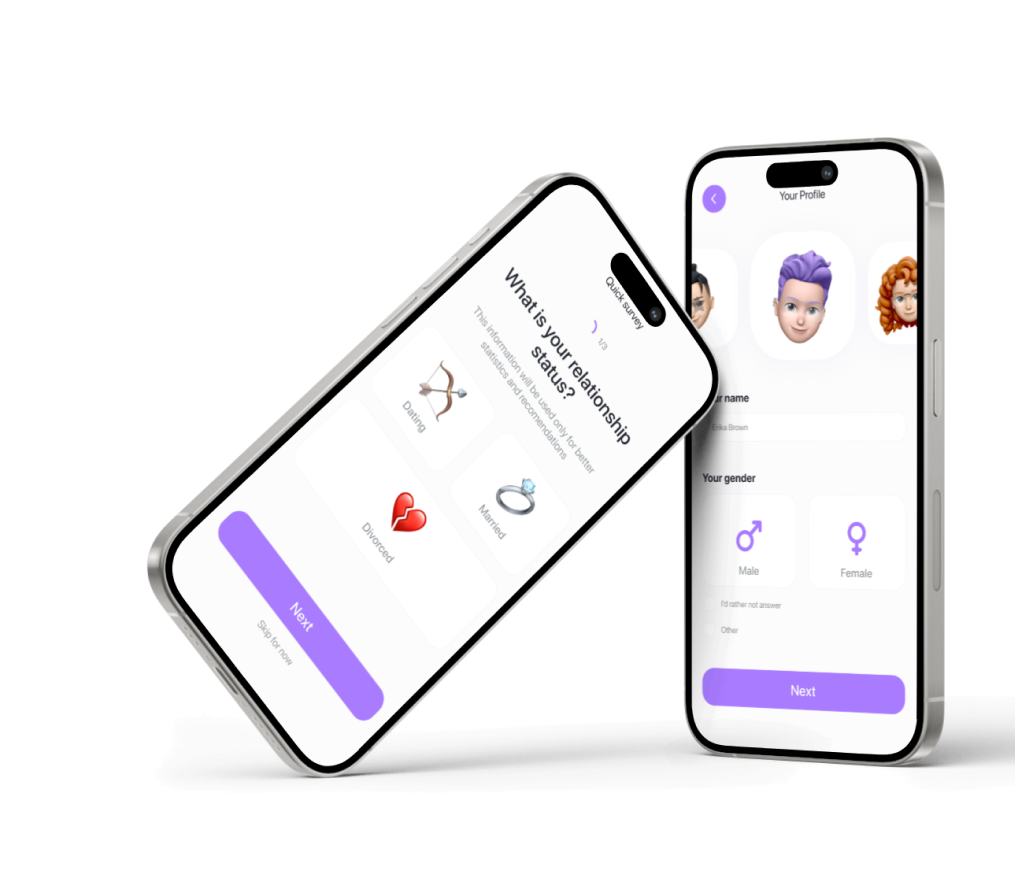
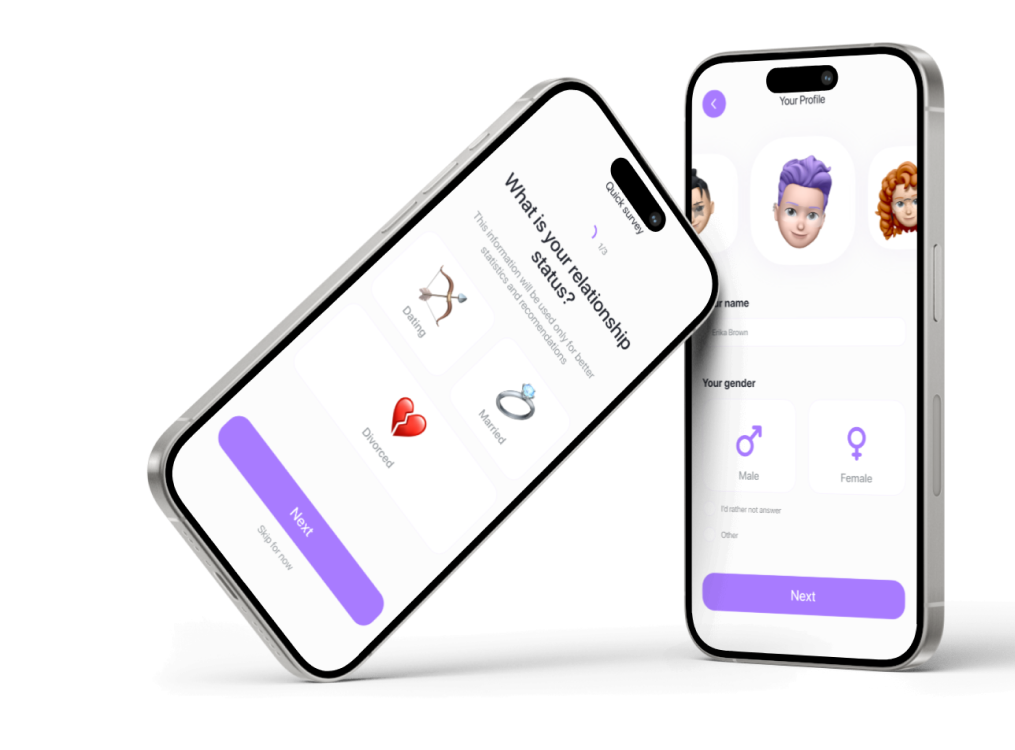
адаптив

diff --git a/tiddle/src/app/(landing)/_components/WhatIsIt/WhatIsIt.module.scss b/tiddle/src/app/(landing)/_components/WhatIsIt/WhatIsIt.module.scss
@@ -5,14 +5,18 @@
 
 	.phones {
 		//flex: 1 0 50%;
+		align-self: flex-end;
+		justify-self: flex-end;
 		max-width: 100%;
 		position: relative;
 		width: 100%;
+		margin-left: 90px;
+		margin-top: 1px;
 		z-index: -1;
 
 		.imgPhones {
 			max-width: 100%;
-			height: auto;
+			// height: auto;
 		}
 	}
 	.title {
@@ -25,6 +29,17 @@
 		}
 		.tag {
 			@include gridContainer(baseline, baseline, start / mid);
+		}
+
+
+		@include descktop1440 {
+			@include grid([start] 1fr [mid] 1fr [end], auto auto auto, 0);
+			grid-row-gap: 64px;
+		}
+
+		@include descktop1200 {
+			@include grid([start] 2fr [mid] 1fr [end], auto auto auto, 0);
+			grid-row-gap: 64px;
 		}
 	}
 	.btnWrapper {
@@ -43,6 +58,9 @@
 			background: $white;
 			right: -32px;
 			top: -32px;
+		}
+		@include descktop1440 {
+			grid-column: start / mid;
 		}
 	}
 }

diff --git a/tiddle/src/app/(landing)/_components/Card/Card.module.scss b/tiddle/src/app/(landing)/_components/Card/Card.module.scss
@@ -1,11 +1,11 @@
 .wrapper {
 	@include flexbox(space-between, center);
-	@include box(100%, 981px);
-	max-width: 539px;
+	height: 981px;
+	//	max-width: 539px;
 	padding: 58px 48px 37px 48px;
 	border-radius: 40px;
+	background: $white;
 	transition: all 0.3s ease-in;
-	margin-bottom: 263px;
 	.imgType {
 		box-shadow: 0 4px 40px 0 rgba(117, 117, 117, 0.15);
 		border-radius: 100px;
@@ -69,4 +69,11 @@
 
 .active {
 	box-shadow: 0 20px 100px 0 rgba(117, 117, 117, 0.2);
+}
+
+@include descktop1200 {
+	.premium {
+		grid-column: start / end;
+		//	width: 100%;
+	}
 }

diff --git a/tiddle/src/app/(landing)/_components/ElipseAvatars/ElipseAvatars.module.scss b/tiddle/src/app/(landing)/_components/ElipseAvatars/ElipseAvatars.module.scss
@@ -19,10 +19,16 @@
 		&:nth-child(3) {
 			margin-top: -100px;
 			max-width: 435px;
+			@include descktop1440 {
+				margin-top: 0;
+			}
 		}
 		&:nth-child(4) {
 			margin-top: 36px;
 			max-width: 405px;
+			@include descktop1440 {
+				margin-top: 0;
+			}
 		}
 
 		&:nth-child(5) {
@@ -32,6 +38,13 @@
 			@include gridContainer(center, flex-start, mid / end);
 			max-width: 354px;
 			margin-top: 174px;
+
+			@include descktop1440 {
+				@include gridContainer(center, center, start / end);
+			}
+			@include descktop1200 {
+				margin-top: 0;
+			}
 		}
 	}
 

diff --git a/tiddle/src/app/(landing)/_components/Plans/Plans.module.scss b/tiddle/src/app/(landing)/_components/Plans/Plans.module.scss
@@ -1,9 +1,15 @@
-.cardsWrapper {
-	@include flexbox(space-between, center, 40px, row);
-	width: 100%;
-}
-
 .wrapper {
 	@include flexbox(center, flex-start, 64px);
 	width: 100%;
+	.cardsWrapper {
+		@include grid(1fr 1fr 1fr, auto, 40px);
+		margin-bottom: 263px;
+		//@include flexbox(space-between, center, 40px, row);
+		width: 100%;
+
+		@include descktop1200 {
+			@include grid([start] 1fr 1fr [end], 1fr auto, 32px);
+			width: 100%;
+		}
+	}
 }

diff --git a/tiddle/src/app/(landing)/_components/Title/Title.module.scss b/tiddle/src/app/(landing)/_components/Title/Title.module.scss
@@ -1,5 +1,5 @@
 .Htag {
-	@include text-styles(96px, 125%, $text-main, 400);
+	@include text-styles(96px, 125%, $text-main, 400, left);
 	margin: 0;
 	padding: 0;
 	white-space: nowrap;
@@ -11,5 +11,12 @@
 
 	.link {
 		color: $main-colour-elements;
+		@include descktop1200 {
+			display: block;
+		}
+	}
+
+	@include descktop1440 {
+		@include text-styles(84px, 114%, $text-main, 400, left);
 	}
 }

diff --git a/tiddle/src/app/(landing)/page.module.scss b/tiddle/src/app/(landing)/page.module.scss
@@ -14,6 +14,10 @@
 		margin: 0 auto;
 		max-width: 1920px;
 		width: 100%;
+
+		@include descktop1440 {
+			padding: 55px 50px;
+		}
 	}
 	.wrapperBottom {
 		padding: 55px 110px;
@@ -22,6 +26,10 @@
 		margin: 0 auto;
 		max-width: 1920px;
 		width: 100%;
+
+		@include descktop1440 {
+			padding: 55px 50px;
+		}
 	}
 
 	.hditWrapper {

diff --git a/tiddle/src/app/(landing)/_components/Card/Card.tsx b/tiddle/src/app/(landing)/_components/Card/Card.tsx
@@ -10,12 +10,13 @@ export function Card({
 	price,
 	extend,
 	secondaryText,
+	className,
 	...props
 }: CardProps) {
 	return (
 		<div
 			{...props}
-			className={classNames(styles.wrapper, {
+			className={classNames(styles.wrapper, className, styles[type], {
 				[styles.active]: active
 			})}
 		>

diff --git a/tiddle/src/app/(landing)/_components/Title/Title.tsx b/tiddle/src/app/(landing)/_components/Title/Title.tsx
@@ -57,9 +57,8 @@ export function Title({
 					</motion.div>
 					<span>
 						Evelate your love
-						<br /> everyday with
+						<br /> everyday with&nbsp;
 					</span>
-					&nbsp;
 					<span className={styles.link}>{textLink}</span>
 				</h1>
 			</AnimatePresence>

diff --git a/tiddle/src/styles/_mixins.scss b/tiddle/src/styles/_mixins.scss
@@ -38,6 +38,17 @@
 	}
 }
 
+@mixin descktop1440 {
+	@media screen and (max-width: 1440px) {
+		@content;
+	}
+}
+@mixin descktop1200 {
+	@media screen and (max-width: 1200px) {
+		@content;
+	}
+}
+
 @mixin box($width, $height: $width) {
 	width: $width;
 	height: $height;

diff --git a/tiddle/src/app/(landing)/_components/Trobles/Troubles.module.scss b/tiddle/src/app/(landing)/_components/Trobles/Troubles.module.scss
@@ -18,6 +18,10 @@
 	.slipsWrapper {
 		@include flexbox(center, center, 84px, row);
 		flex-wrap: wrap;
+
+		@include descktop1440 {
+			gap: 32px;
+		}
 	}
 	.bottomTextWrapper {
 		@include flexbox(center, center, 24px, column);

diff --git a/tiddle/src/app/(landing)/_components/Plans/Plans.tsx b/tiddle/src/app/(landing)/_components/Plans/Plans.tsx
@@ -16,7 +16,7 @@ export function Plans({ cards, tag, ...props }: PlanProps) {
 						advantages={card.advantages}
 						price={card.price}
 						extend={card.extend}
-					></Card>
+					/>
 				))}
 			</div>
 		</div>

diff --git a/tiddle/src/app/(landing)/globals.scss b/tiddle/src/app/(landing)/globals.scss
@@ -1,7 +1,6 @@
 @import '@/styles/variables';
 
 body {
-	font-family: 'SF Pro Display';
 	background: $background-color;
 	margin: 0 auto;
 }
